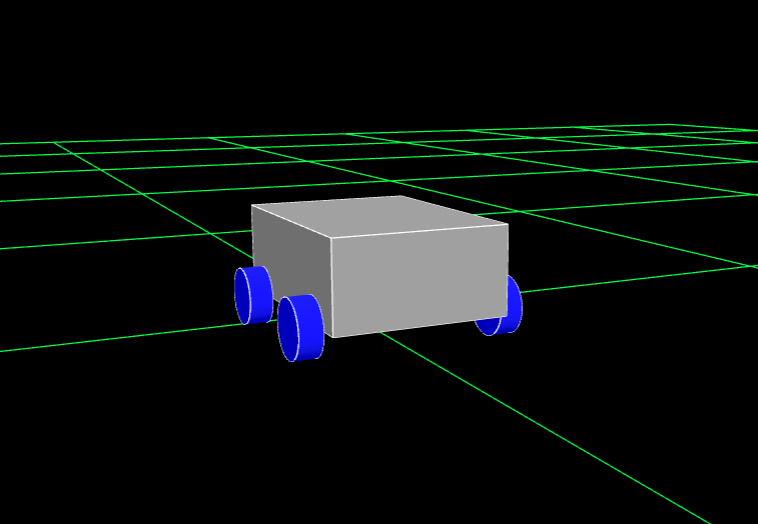
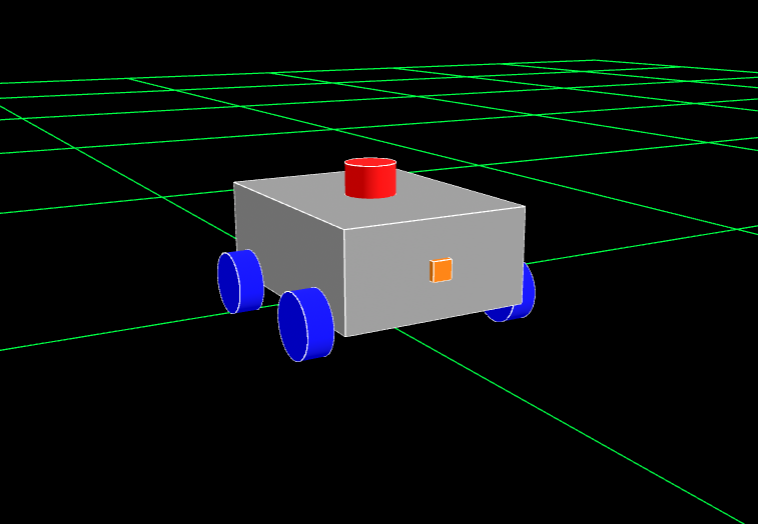
started links and joints section, added captions to diagrams, replaced Tootles images with the version that includes sensor models

diff --git a/docs/Curriculum/Understanding-URDF-Files.md b/docs/Curriculum/Understanding-URDF-Files.md
@@ -54,7 +54,9 @@ graph TD
     back_right_wheel_joint --> back_right_wheel_link
 ```
 
-The tree visualization also helps clarify one of the most important (and limiting) rules about URDF: While a parent can have as many children as necessary, a child can have *only one* parent. This makes any closed loop system, such as a four-bar linkage or tank treads, impossible to accurately simulate with a URDF.
+> This is a tree diagram representation of the robot we will be modeling later on. Keep in mind that this is a very simple model; URDFs of real robots will very likely be much more complicated than this, but they should maintain the same basic structure.
+
+The tree visualization also helps clarify one of the most important (and limiting) rules about URDF: While a parent can have as many children as necessary, a child can only have **one parent**. This makes any closed loop system, such as a four-bar linkage or tank treads, impossible to accurately simulate with a URDF.
 
 <!-- markdownlint-disable MD031 -->
 ```mermaid
@@ -77,15 +79,17 @@ graph TD
 {: .text-center }
 <!-- markdownlint-enable MD031 -->
 
-> This "tree" visualization of a four-point linkage shows how it's not possible for one child (`coupler_link`), to have multiple parents (`left_pivot_joint` and `right_pivot_joint`).
+> This tree visualization of a four-point linkage shows how it's not possible for one child (`coupler_link`), to have multiple parents (`left_pivot_joint` and `right_pivot_joint`). Think of how, on a real tree, the trunk will split off into many smaller branches, but those branches will never recombine.
 
 ## Links and Joints
+
+In the last two diagrams, you saw a lot of references to elements named `something_link` and `something_joint`. `link`s and `joint`s are probably the two most important tags in URDF files, as they are what you actually use to define a component of your robot. Typically, they are used in pairs, (except `base_link`, which doesnt have a joint counterpart) with the `joint` defining how the part will move in relation to its parent link, and where the new part will be placed in reference to the parent link.
 
 ## Building your URDF
 
 To get started with actually constructing your URDF, you must first do something very important. You need to give your robot a name! This name *must* be listed in the "main" URDF file. You can place it in our other files as well, but it is not necessary. For this tutorial, I named this robot "Tootles". The name is completely arbitrary. It doesn't matter what you choose, but you will want to keep it in mind for organizational purposes.  
 
-While you can place all of your components into one large URDF file, this is generally not good practice, as they can get very large and difficult to manage relatively quickly. Instead, its a good idea to use Xacro (XML Macros) to split your URDF into multiple smaller files that can be compiled together using special tags. For a detailed look at how to integrate xacro into your URDF, see [URDF with xacro Templates]({% link docs/Technical/ROS2/Jazzy/URDF/URDF-With-Xacro-Templates.md %}). For an extensive look at the additional features xacro provides, see [URDF with xacro Features]({% link docs/Technical/ROS2/Jazzy/URDF/URDF-With-Xacro-Features.md %}).
+While you can place all of your components into one large URDF file, this is generally not good practice, as they can get very large and difficult to manage relatively quickly. Instead, its a good idea to use Xacro (XML Macros) to split your URDF into multiple smaller files that can be compiled together using special tags. For a detailed look at how to integrate xacro into your URDF, see [URDF with Xacro Templates]({% link docs/Technical/ROS2/Jazzy/URDF/URDF-With-Xacro-Templates.md %}). For an extensive look at the additional features xacro provides, see [URDF with Xacro Features]({% link docs/Technical/ROS2/Jazzy/URDF/URDF-With-Xacro-Features.md %}).
 
 Now, to actually get started constructing the robot model, I like to first create the xacro files I will need, so that I can build the main URDF xacro. Every robot following this convention will have at least two xacro files. The first, `robotName.urdf.xacro` (replace `robotName` with the name you chose for your robot), will effectively serve as the location where you combine all of your xacro files together using `include` tags. You will also include your `base_link` in the main URDF file. The second file, `robotName_core.xacro`, is where you will define the core body of your robot. For our purposes, this will just consist of the robot's chassis, and the wheels, but for more complex robots, this file can easily grow quite large. If this is the case, you can further break up your core file into smaller xacro files, but this will not be necessary for this tutorial.  
 
@@ -117,7 +121,7 @@ Optionally, you can also include xacro files for various other aspects of your r
 
 The `material` tag contains information about how a visualization software should make any given object look. The only tag within `material` you will have to worry about most of the time is `color`. The `color` tag takes in one string of four numbers, each within the range of 0 to 1. These numbers represent an RGBA value (Red, Green, Blue, Alpha). Alpha describes the transparency of the color.
 
-Okay, now that we have made all of the files we will need, we can get started by building our main URDF file. These first couple of steps are also documented in [URDF with xacro Templates]({% link docs/Technical/ROS2/Jazzy/URDF/URDF-With-Xacro-Templates.md %}#in-file-structure), but for the sake of simplicity I will explain these concepts again here. The first thing you need to do in every single xacro file is define the XML version and the UTF encoding you will be using. For URDF, you will always use XML Version 1.0 and UTF-9 encodings. Therefore, the first line on every single xacro you make should be:
+Okay, now that we have made all of the files we will need, we can get started by building our main URDF file. These first couple of steps are also documented in [URDF with Xacro Templates]({% link docs/Technical/ROS2/Jazzy/URDF/URDF-With-Xacro-Templates.md %}#in-file-structure), but for the sake of simplicity I will explain these concepts again here. The first thing you need to do in every single xacro file is define the XML version and the UTF encoding you will be using. For URDF, you will always use XML Version 1.0 and UTF-9 encodings. Therefore, the first line on every single xacro you make should be:
 
 ```xml
 <?xml version="1.0" encoding="utf-8"?>